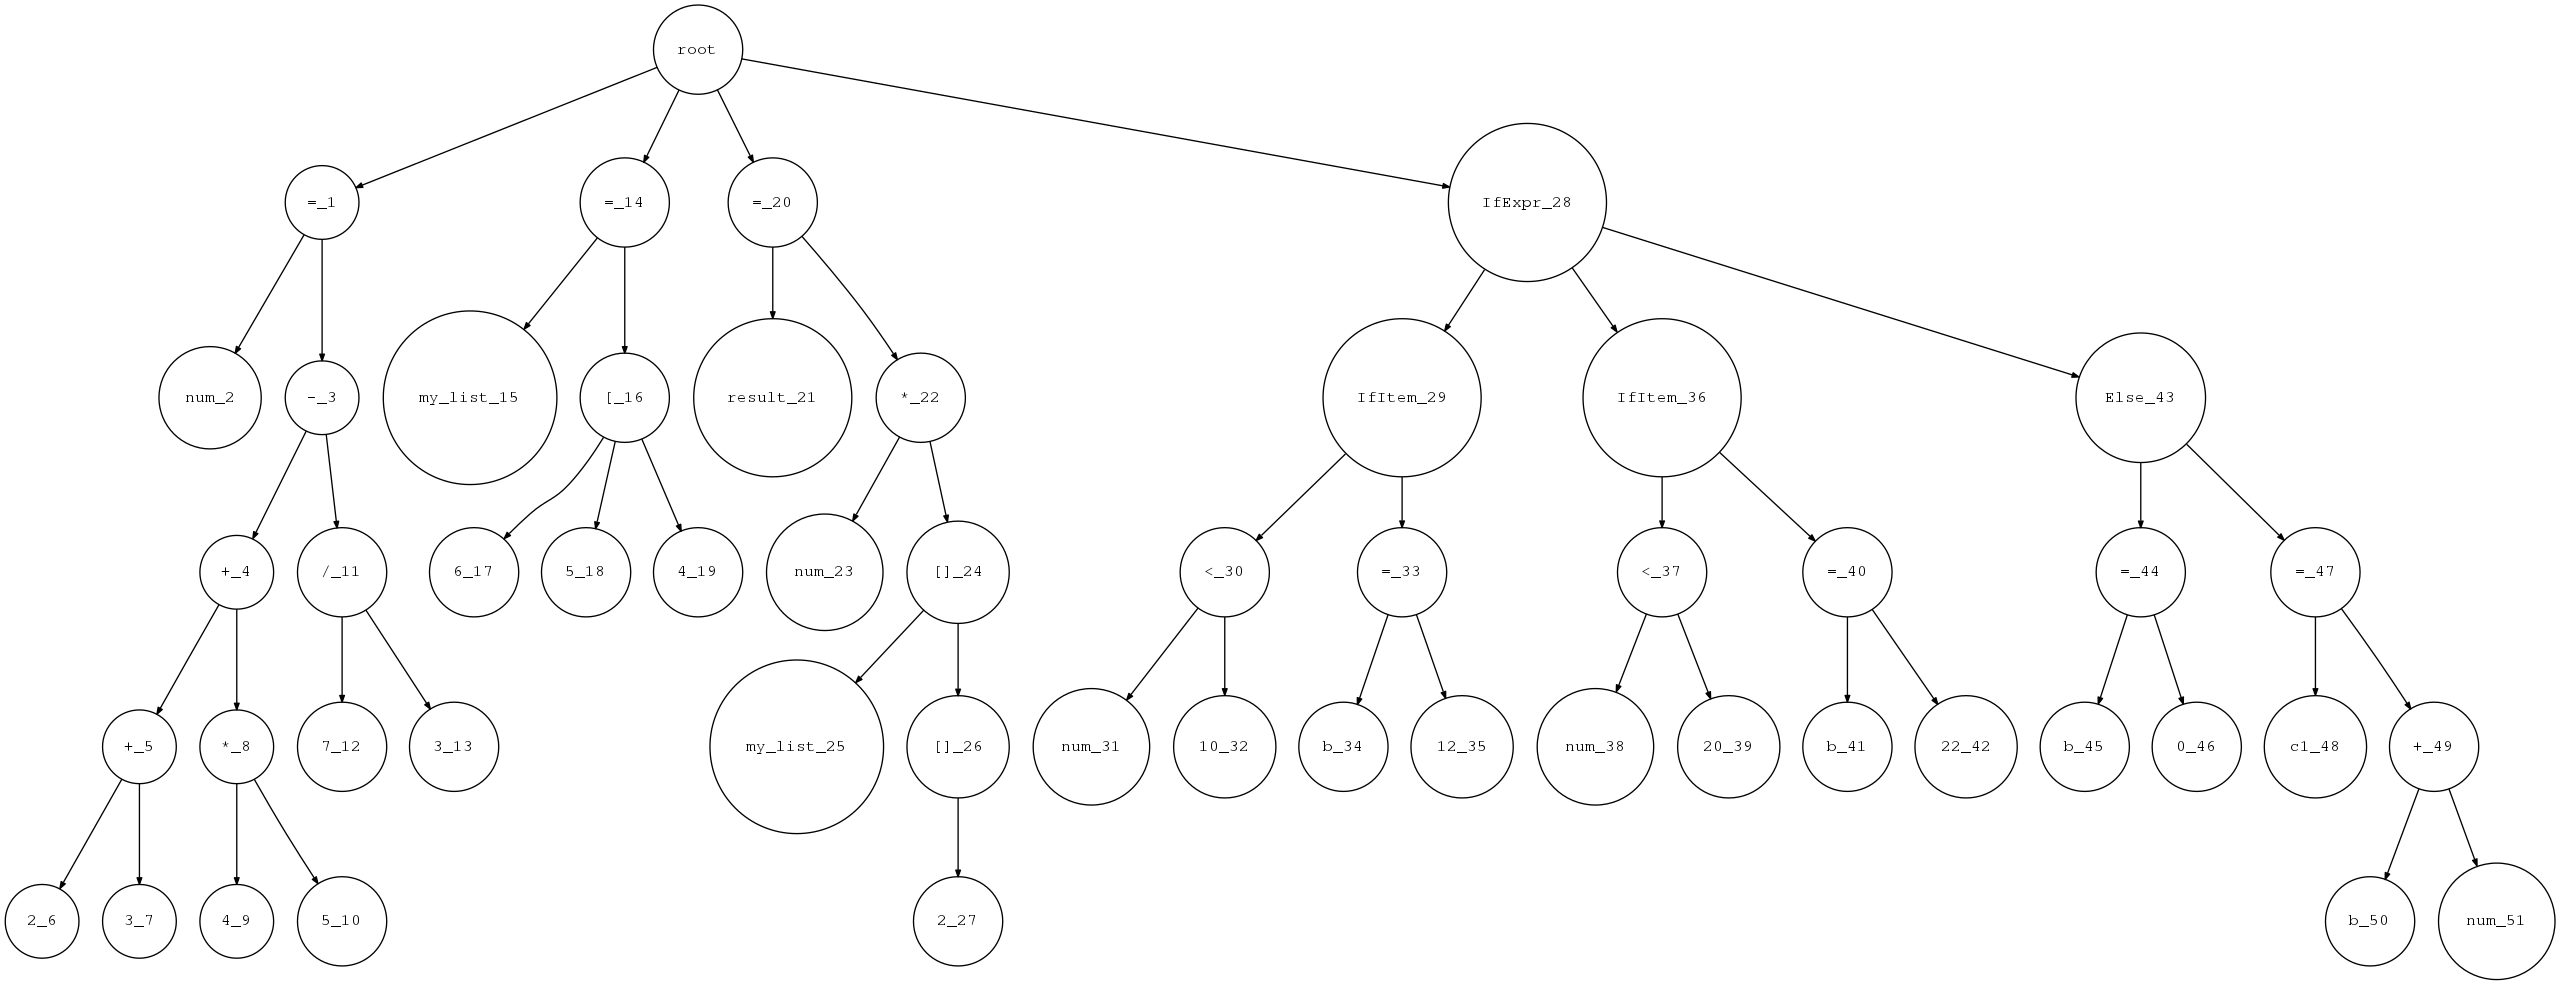
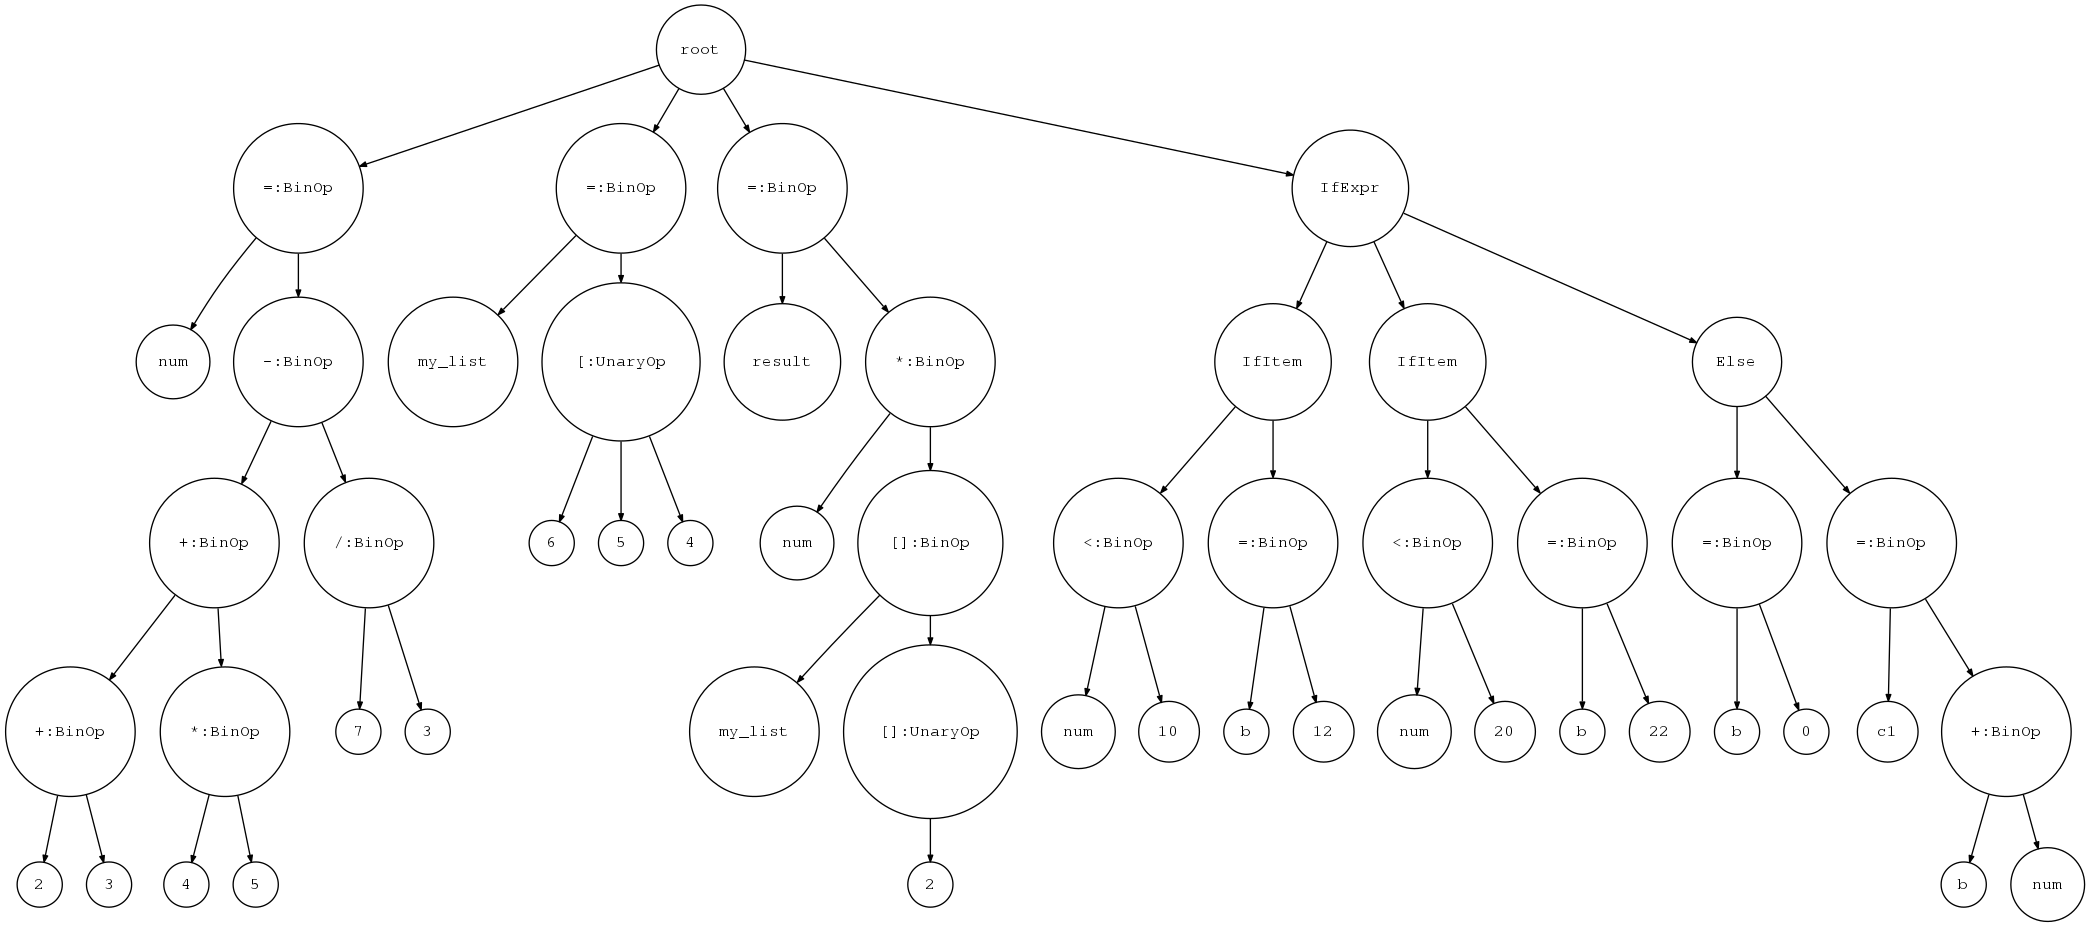
修改可视化程序

diff --git a/dot.py b/dot.py
@@ -13,7 +13,7 @@ class VisitNode(object):
 
     def result(self):
         self.visit_file_input()
-        return 'digraph G {\n    node [shape=circle, fontsize=12, fontname="Courier", height=.1];\n    ranksep=.3;\n    edge [arrowsize=.5]\n' + self.content + '}'
+        return 'digraph astgraph {\n    node [shape=circle, fontsize=12, fontname="Courier", height=.1];\n    ranksep=.3;\n    edge [arrowsize=.5]\n' + self.content + '}'
 
     def visit_file_input(self):
 
@@ -25,64 +25,75 @@ class VisitNode(object):
 
     def visit_BinOp(self, root, node):
         self.num += 1
-        root2 = ''.join(['"', str(node.op.value), "_", str(self.num), '"'])
-
-        self.content += "    {} -> {}\n".format(root, root2)
+        node_token = ''.join(['node', str(self.num)])
+        root2 = ''.join(
+            [node_token, ' [label="', str(node.op.value), ':BinOp"]'])
+        self.content += ' '*4+root2 + '\n'
+        self.content += "    {} -> {}\n".format(root, node_token)
         if node.left:
-            self.visit(root2, node.left)
+            self.visit(node_token, node.left)
 
         if node.right:
-            self.visit(root2, node.right)
+            self.visit(node_token, node.right)
 
     def visit_UnaryOp(self, root0, node):
         self.num += 1
-        root = ''.join(['"', str(node.op.value), "_", str(self.num), '"'])
-        self.content += "    {} -> {}\n".format(root0, root)
+        node_token = ''.join(['node', str(self.num)])
+        root = ''.join(
+            [node_token, ' [label="', str(node.op.value), ':UnaryOp"]'])
+        self.content += ' '*4+root + '\n'
+        self.content += "    {} -> {}\n".format(root0, node_token)
 
         if node.token:
-            self.visit(root, node.token)
+            self.visit(node_token, node.token)
 
     def visit_ListObj(self, root, node):
         for token in node.tokens:
             self.visit(root, token)
 
     def visit_Token(self, root, node):
-        if hasattr(node, 'value'):
-            self.num += 1
-            token = ''.join(['"', str(node.value), '_', str(self.num), '"'])
-            self.content += "    {} -> {}\n".format(root, token)
-        else:
-            self.visit(token, node)
+        self.num += 1
+        node_token = ''.join(['node', str(self.num)])
+        token = ''.join([node_token, ' [label="', str(node.value), '"]'])
+        self.content += ' '*4 + token + '\n'
+        self.content += "    {} -> {}\n".format(root, node_token)
 
     def visit_IfExpr(self, root, node):
         self.num += 1
-        token = ''.join(['"IfExpr_', str(self.num), '"'])
-        self.content += '    {} -> {}\n'.format(root, token)
+        node_token = ''.join(['node', str(self.num)])
+        token = ''.join([node_token, ' [label="IfExpr', '"]'])
+        self.content += ' '*4+token + '\n'
+        self.content += '    {} -> {}\n'.format(root, node_token)
         for item in node.tokens:
-            self.visit(token, item)
+            self.visit(node_token, item)
 
     def visit_IfItem(self, root, node):
         self.num += 1
+        node_token = ''.join(['node', str(self.num)])
         if node.condition:
-            token = ''.join(['"IfItem_', str(self.num), '"'])
-            self.content += '    {} -> {}\n'.format(root, token)
-            self.visit(token, node.condition)
+            token = ''.join([node_token, ' [label="IfItem', '"]'])
+            self.content += ' '*4 + token + '\n'
+            self.content += '    {} -> {}\n'.format(root, node_token)
+            self.visit(node_token, node.condition)
         else:
-            token = ''.join(['"Else_', str(self.num), '"'])
-            self.content += '    {} -> {}\n'.format(root, token)
-        self.visit(token, node.stmt)
+            token = ''.join([node_token, ' [label="Else', '"]'])
+            self.content += ' '*4 + token + '\n'
+            self.content += '    {} -> {}\n'.format(root, node_token)
+        self.visit(node_token, node.stmt)
 
     def visit_ThreeOp(self, root, node):
         self.num += 1
-        token = ''.join(['"', node.op.value, '_', str(self.num), '"'])
-        self.content += "    {} -> {}\n".format(root, token)
+        node_token = ''.join(['node', str(self.num)])
+        token = ''.join([node_token, ' [label="', node.op.value, ':ThreeOp"]'])
+        self.content += ' '*4 + token + '\n'
+        self.content += "    {} -> {}\n".format(root, node_token)
 
         if node.left:
-            self.visit(token, node.left)
+            self.visit(node_token, node.left)
         if node.middle:
-            self.visit(token, node.middle)
+            self.visit(node_token, node.middle)
         if node.right:
-            self.visit(token, node.right)
+            self.visit(node_token, node.right)
 
     def visit(self, root, node):
         method_name = 'visit_' + type(node).__name__
